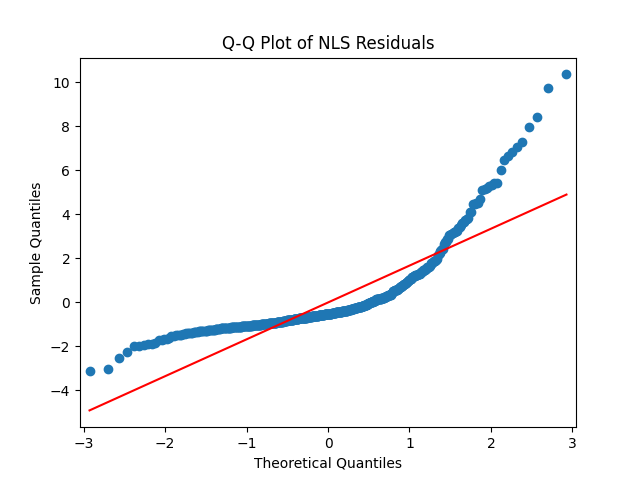
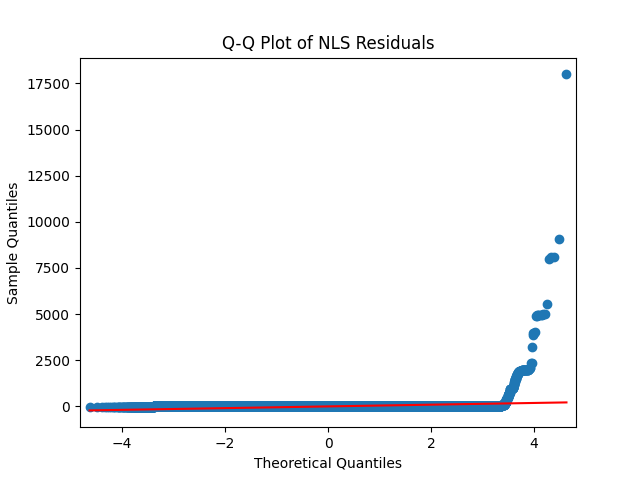
chore: result for full stock list

diff --git a/main.py b/main.py
@@ -12,14 +12,17 @@ from taq.NLSEstimator import NLSImpactEstimator
 from taq.Utils import extract_tar_files, extract_all_quotes, get_stock_list  # Importing from Utils
 
 def main():
-    # Define input directories
-    tar_dir = MyDirectories.get_quotes_dir()
-    extract_dir = os.path.join(tar_dir, "extracted")
+    # Extract quote and trade data from tar files
+    quotes_extract_dir = MyDirectories.getQuotesDir()
+    quotes_tar_dir = os.path.join(quotes_extract_dir, "..")
+    extract_tar_files(quotes_tar_dir, quotes_extract_dir)
 
-    extract_tar_files(tar_dir, extract_dir)
+    trades_extract_dir = MyDirectories.getQuotesDir()
+    trades_tar_dir = os.path.join(trades_extract_dir, "..")
+    extract_tar_files(trades_tar_dir, trades_extract_dir)
 
     # Initialize data processor
-    processor = DataProcessor(extract_dir)
+    processor = DataProcessor(quotes_extract_dir)
 
     feature_matrices = {
         "2min_returns": defaultdict(dict),
@@ -30,13 +33,12 @@ def main():
     }
 
     # Process each extracted date folder
-    for date_folder in sorted(os.listdir(extract_dir)):
-        date_path = os.path.join(extract_dir, date_folder)
+    for date_folder in sorted(os.listdir(quotes_extract_dir)):
+        date_path = os.path.join(quotes_extract_dir, date_folder)
         if not os.path.isdir(date_path):
             continue  # Skip if not a folder
 
-        # stock_list = get_stock_list(date_path)
-        stock_list = ['AAPL', 'MSFT', 'GOOG', 'AMZN', 'NVDA', 'JNJ', 'JPM', 'MS', 'PG']
+        stock_list = get_stock_list(date_path)
 
         for stock in stock_list:
             print(f"Processing stock {date_folder}: {stock}")
